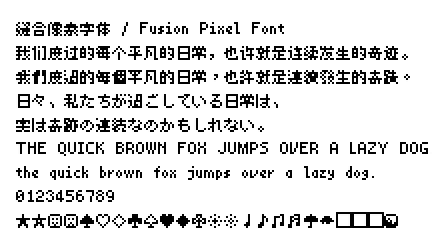
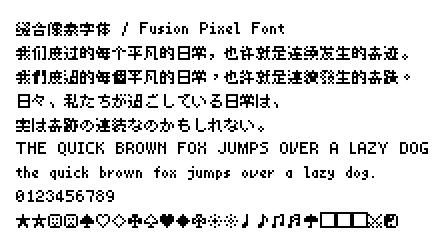
2024.11.04

diff --git a/tools/configs/__init__.py b/tools/configs/__init__.py
@@ -1,6 +1,6 @@
 from typing import Literal, get_args
 
-version = '2024.05.12'
+version = '2024.11.04'
 
 type FontSize = Literal[8, 10, 12]
 font_sizes = list[FontSize](get_args(FontSize.__value__))

diff --git a/docs/font-info-8px-monospaced.md b/docs/font-info-8px-monospaced.md
@@ -4,29 +4,29 @@
 
 | 属性 | 值 |
 |---|---|
-| 版本号 | 2024.05.12 |
-| 字符总数 | 20601 |
+| 版本号 | 2024.11.04 |
+| 字符总数 | 22061 |
 
 ## Unicode 字符分布
 
-Unicode 版本：15.1.0
+Unicode 版本：16.0.0
 
 | 区块范围 | 区块名称 | 区块含义 | 完成数 | 缺失数 | 进度 |
 |---|---|---|---:|---:|---:|
 | 0000 ~ 007F | Basic Latin | 基本拉丁 | 95 / 95 | 0 | 100.00% 🚩 |
-| 0080 ~ 00FF | Latin-1 Supplement | 拉丁-1 增补 | 90 / 94 | 4 | 95.74% 🚧 |
-| 0100 ~ 017F | Latin Extended-A | 拉丁扩充-A | 115 / 128 | 13 | 89.84% 🚧 |
-| 0180 ~ 024F | Latin Extended-B | 拉丁扩充-B | 72 / 208 | 136 | 34.62% 🚧 |
+| 0080 ~ 00FF | Latin-1 Supplement | 拉丁-1 增补 | 94 / 94 | 0 | 100.00% 🚩 |
+| 0100 ~ 017F | Latin Extended-A | 拉丁扩充-A | 128 / 128 | 0 | 100.00% 🚩 |
+| 0180 ~ 024F | Latin Extended-B | 拉丁扩充-B | 77 / 208 | 131 | 37.02% 🚧 |
 | 2000 ~ 206F | General Punctuation | 通用标点 | 36 / 71 | 35 | 50.70% 🚧 |
 | 2100 ~ 214F | Letterlike Symbols | 类字符号 | 2 / 80 | 78 | 2.50% 🚧 |
 | 2150 ~ 218F | Number Forms | 数字形式 | 24 / 60 | 36 | 40.00% 🚧 |
 | 2190 ~ 21FF | Arrows | 箭头 | 49 / 112 | 63 | 43.75% 🚧 |
-| 2200 ~ 22FF | Mathematical Operators | 数学运算符 | 54 / 256 | 202 | 21.09% 🚧 |
-| 2460 ~ 24FF | Enclosed Alphanumerics | 包围字母数字 | 92 / 160 | 68 | 57.50% 🚧 |
+| 2200 ~ 22FF | Mathematical Operators | 数学运算符 | 37 / 256 | 219 | 14.45% 🚧 |
+| 2460 ~ 24FF | Enclosed Alphanumerics | 包围字母数字 | 20 / 160 | 140 | 12.50% 🚧 |
 | 2500 ~ 257F | Box Drawing | 制表符 | 128 / 128 | 0 | 100.00% 🚩 |
 | 2580 ~ 259F | Block Elements | 方块元素 | 32 / 32 | 0 | 100.00% 🚩 |
 | 25A0 ~ 25FF | Geometric Shapes | 几何形状 | 96 / 96 | 0 | 100.00% 🚩 |
-| 2600 ~ 26FF | Miscellaneous Symbols | 各式符号 | 45 / 256 | 211 | 17.58% 🚧 |
+| 2600 ~ 26FF | Miscellaneous Symbols | 各式符号 | 75 / 256 | 181 | 29.30% 🚧 |
 | 2800 ~ 28FF | Braille Patterns | 盲文图案 | 256 / 256 | 0 | 100.00% 🚩 |
 | 3000 ~ 303F | CJK Symbols and Punctuation | 中日韩符号与标点 | 49 / 63 | 14 | 77.78% 🚧 |
 | 3040 ~ 309F | Hiragana | 平假名 | 87 / 93 | 6 | 93.55% 🚧 |
@@ -34,11 +34,11 @@ Unicode 版本：15.1.0
 | 3100 ~ 312F | Bopomofo | 注音字母 | 43 / 43 | 0 | 100.00% 🚩 |
 | 3130 ~ 318F | Hangul Compatibility Jamo | 谚文兼容字母 | 52 / 94 | 42 | 55.32% 🚧 |
 | 3200 ~ 32FF | Enclosed CJK Letters and Months | 包围中日韩字母与月份 | 31 / 255 | 224 | 12.16% 🚧 |
-| 4E00 ~ 9FFF | CJK Unified Ideographs | 中日韩统一表意文字 | 13218 / 20992 | 7774 | 62.97% 🚧 |
+| 4E00 ~ 9FFF | CJK Unified Ideographs | 中日韩统一表意文字 | 14717 / 20992 | 6275 | 70.11% 🚧 |
 | AC00 ~ D7AF | Hangul Syllables | 谚文音节 | 5517 / 11172 | 5655 | 49.38% 🚧 |
 | E000 ~ F8FF | Private Use Area | 私用区域 | 94 / 0 | 0 | 100.00% 🚩 |
 | FE10 ~ FE1F | Vertical Forms | 竖排形式 | 10 / 10 | 0 | 100.00% 🚩 |
-| FE30 ~ FE4F | CJK Compatibility Forms | 中日韩兼容形式 | 29 / 32 | 3 | 90.62% 🚧 |
+| FE30 ~ FE4F | CJK Compatibility Forms | 中日韩兼容形式 | 27 / 32 | 5 | 84.38% 🚧 |
 | FE50 ~ FE6F | Small Form Variants | 小型形式变体 | 25 / 26 | 1 | 96.15% 🚧 |
 | FF00 ~ FFEF | Halfwidth and Fullwidth Forms | 半宽与全宽形式 | 167 / 225 | 58 | 74.22% 🚧 |
 | FFF0 ~ FFFF | Specials | 特殊 | 2 / 2 | 0 | 100.00% 🚩 |
@@ -51,8 +51,8 @@ Unicode 版本：15.1.0
 |---|---:|---:|---:|
 | 一级汉字 | 3755 / 3755 | 0 | 100.00% 🚩 |
 | 二级汉字 | 3008 / 3008 | 0 | 100.00% 🚩 |
-| 其他字符 | 559 / 682 | 123 | 81.96% 🚧 |
-| 总计 | 7322 / 7445 | 123 | 98.35% 🚧 |
+| 其他字符 | 514 / 682 | 168 | 75.37% 🚧 |
+| 总计 | 7277 / 7445 | 168 | 97.74% 🚧 |
 
 ## Big5 字符分布
 
@@ -61,9 +61,9 @@ Unicode 版本：15.1.0
 | 区块名称 | 完成数 | 缺失数 | 进度 |
 |---|---:|---:|---:|
 | 常用汉字 | 5401 / 5401 | 0 | 100.00% 🚩 |
-| 次常用汉字 | 3923 / 7652 | 3729 | 51.27% 🚧 |
+| 次常用汉字 | 4801 / 7652 | 2851 | 62.74% 🚧 |
 | 其他字符 | 339 / 408 | 69 | 83.09% 🚧 |
-| 总计 | 9663 / 13461 | 3798 | 71.79% 🚧 |
+| 总计 | 10541 / 13461 | 2920 | 78.31% 🚧 |
 
 ## Shift-JIS 字符分布
 
@@ -73,9 +73,9 @@ Unicode 版本：15.1.0
 |---|---:|---:|---:|
 | 单字节-ASCII可打印字符 | 95 / 95 | 0 | 100.00% 🚩 |
 | 单字节-半角片假名 | 63 / 63 | 0 | 100.00% 🚩 |
-| 双字节-其他字符 | 406 / 524 | 118 | 77.48% 🚧 |
+| 双字节-其他字符 | 408 / 524 | 116 | 77.86% 🚧 |
 | 双字节-汉字 | 6355 / 6355 | 0 | 100.00% 🚩 |
-| 总计 | 6919 / 7037 | 118 | 98.32% 🚧 |
+| 总计 | 6921 / 7037 | 116 | 98.35% 🚧 |
 
 ## KS-X-1001 字符分布
 
@@ -84,6 +84,6 @@ Unicode 版本：15.1.0
 | 区块名称 | 完成数 | 缺失数 | 进度 |
 |---|---:|---:|---:|
 | 谚文音节 | 2350 / 2350 | 0 | 100.00% 🚩 |
-| 汉字 | 4453 / 4888 | 435 | 91.10% 🚧 |
-| 其他字符 | 633 / 988 | 355 | 64.07% 🚧 |
-| 总计 | 7436 / 8226 | 790 | 90.40% 🚧 |
+| 汉字 | 4620 / 4888 | 268 | 94.52% 🚧 |
+| 其他字符 | 592 / 988 | 396 | 59.92% 🚧 |
+| 总计 | 7562 / 8226 | 664 | 91.93% 🚧 |

diff --git a/docs/font-info-8px-proportional.md b/docs/font-info-8px-proportional.md
@@ -4,29 +4,29 @@
 
 | 属性 | 值 |
 |---|---|
-| 版本号 | 2024.05.12 |
-| 字符总数 | 20601 |
+| 版本号 | 2024.11.04 |
+| 字符总数 | 22061 |
 
 ## Unicode 字符分布
 
-Unicode 版本：15.1.0
+Unicode 版本：16.0.0
 
 | 区块范围 | 区块名称 | 区块含义 | 完成数 | 缺失数 | 进度 |
 |---|---|---|---:|---:|---:|
 | 0000 ~ 007F | Basic Latin | 基本拉丁 | 95 / 95 | 0 | 100.00% 🚩 |
-| 0080 ~ 00FF | Latin-1 Supplement | 拉丁-1 增补 | 90 / 94 | 4 | 95.74% 🚧 |
-| 0100 ~ 017F | Latin Extended-A | 拉丁扩充-A | 115 / 128 | 13 | 89.84% 🚧 |
-| 0180 ~ 024F | Latin Extended-B | 拉丁扩充-B | 72 / 208 | 136 | 34.62% 🚧 |
+| 0080 ~ 00FF | Latin-1 Supplement | 拉丁-1 增补 | 94 / 94 | 0 | 100.00% 🚩 |
+| 0100 ~ 017F | Latin Extended-A | 拉丁扩充-A | 128 / 128 | 0 | 100.00% 🚩 |
+| 0180 ~ 024F | Latin Extended-B | 拉丁扩充-B | 77 / 208 | 131 | 37.02% 🚧 |
 | 2000 ~ 206F | General Punctuation | 通用标点 | 36 / 71 | 35 | 50.70% 🚧 |
 | 2100 ~ 214F | Letterlike Symbols | 类字符号 | 2 / 80 | 78 | 2.50% 🚧 |
 | 2150 ~ 218F | Number Forms | 数字形式 | 24 / 60 | 36 | 40.00% 🚧 |
 | 2190 ~ 21FF | Arrows | 箭头 | 49 / 112 | 63 | 43.75% 🚧 |
-| 2200 ~ 22FF | Mathematical Operators | 数学运算符 | 54 / 256 | 202 | 21.09% 🚧 |
-| 2460 ~ 24FF | Enclosed Alphanumerics | 包围字母数字 | 92 / 160 | 68 | 57.50% 🚧 |
+| 2200 ~ 22FF | Mathematical Operators | 数学运算符 | 37 / 256 | 219 | 14.45% 🚧 |
+| 2460 ~ 24FF | Enclosed Alphanumerics | 包围字母数字 | 20 / 160 | 140 | 12.50% 🚧 |
 | 2500 ~ 257F | Box Drawing | 制表符 | 128 / 128 | 0 | 100.00% 🚩 |
 | 2580 ~ 259F | Block Elements | 方块元素 | 32 / 32 | 0 | 100.00% 🚩 |
 | 25A0 ~ 25FF | Geometric Shapes | 几何形状 | 96 / 96 | 0 | 100.00% 🚩 |
-| 2600 ~ 26FF | Miscellaneous Symbols | 各式符号 | 45 / 256 | 211 | 17.58% 🚧 |
+| 2600 ~ 26FF | Miscellaneous Symbols | 各式符号 | 75 / 256 | 181 | 29.30% 🚧 |
 | 2800 ~ 28FF | Braille Patterns | 盲文图案 | 256 / 256 | 0 | 100.00% 🚩 |
 | 3000 ~ 303F | CJK Symbols and Punctuation | 中日韩符号与标点 | 49 / 63 | 14 | 77.78% 🚧 |
 | 3040 ~ 309F | Hiragana | 平假名 | 87 / 93 | 6 | 93.55% 🚧 |
@@ -34,11 +34,11 @@ Unicode 版本：15.1.0
 | 3100 ~ 312F | Bopomofo | 注音字母 | 43 / 43 | 0 | 100.00% 🚩 |
 | 3130 ~ 318F | Hangul Compatibility Jamo | 谚文兼容字母 | 52 / 94 | 42 | 55.32% 🚧 |
 | 3200 ~ 32FF | Enclosed CJK Letters and Months | 包围中日韩字母与月份 | 31 / 255 | 224 | 12.16% 🚧 |
-| 4E00 ~ 9FFF | CJK Unified Ideographs | 中日韩统一表意文字 | 13218 / 20992 | 7774 | 62.97% 🚧 |
+| 4E00 ~ 9FFF | CJK Unified Ideographs | 中日韩统一表意文字 | 14717 / 20992 | 6275 | 70.11% 🚧 |
 | AC00 ~ D7AF | Hangul Syllables | 谚文音节 | 5517 / 11172 | 5655 | 49.38% 🚧 |
 | E000 ~ F8FF | Private Use Area | 私用区域 | 94 / 0 | 0 | 100.00% 🚩 |
 | FE10 ~ FE1F | Vertical Forms | 竖排形式 | 10 / 10 | 0 | 100.00% 🚩 |
-| FE30 ~ FE4F | CJK Compatibility Forms | 中日韩兼容形式 | 29 / 32 | 3 | 90.62% 🚧 |
+| FE30 ~ FE4F | CJK Compatibility Forms | 中日韩兼容形式 | 27 / 32 | 5 | 84.38% 🚧 |
 | FE50 ~ FE6F | Small Form Variants | 小型形式变体 | 25 / 26 | 1 | 96.15% 🚧 |
 | FF00 ~ FFEF | Halfwidth and Fullwidth Forms | 半宽与全宽形式 | 167 / 225 | 58 | 74.22% 🚧 |
 | FFF0 ~ FFFF | Specials | 特殊 | 2 / 2 | 0 | 100.00% 🚩 |
@@ -51,8 +51,8 @@ Unicode 版本：15.1.0
 |---|---:|---:|---:|
 | 一级汉字 | 3755 / 3755 | 0 | 100.00% 🚩 |
 | 二级汉字 | 3008 / 3008 | 0 | 100.00% 🚩 |
-| 其他字符 | 559 / 682 | 123 | 81.96% 🚧 |
-| 总计 | 7322 / 7445 | 123 | 98.35% 🚧 |
+| 其他字符 | 514 / 682 | 168 | 75.37% 🚧 |
+| 总计 | 7277 / 7445 | 168 | 97.74% 🚧 |
 
 ## Big5 字符分布
 
@@ -61,9 +61,9 @@ Unicode 版本：15.1.0
 | 区块名称 | 完成数 | 缺失数 | 进度 |
 |---|---:|---:|---:|
 | 常用汉字 | 5401 / 5401 | 0 | 100.00% 🚩 |
-| 次常用汉字 | 3923 / 7652 | 3729 | 51.27% 🚧 |
+| 次常用汉字 | 4801 / 7652 | 2851 | 62.74% 🚧 |
 | 其他字符 | 339 / 408 | 69 | 83.09% 🚧 |
-| 总计 | 9663 / 13461 | 3798 | 71.79% 🚧 |
+| 总计 | 10541 / 13461 | 2920 | 78.31% 🚧 |
 
 ## Shift-JIS 字符分布
 
@@ -73,9 +73,9 @@ Unicode 版本：15.1.0
 |---|---:|---:|---:|
 | 单字节-ASCII可打印字符 | 95 / 95 | 0 | 100.00% 🚩 |
 | 单字节-半角片假名 | 63 / 63 | 0 | 100.00% 🚩 |
-| 双字节-其他字符 | 406 / 524 | 118 | 77.48% 🚧 |
+| 双字节-其他字符 | 408 / 524 | 116 | 77.86% 🚧 |
 | 双字节-汉字 | 6355 / 6355 | 0 | 100.00% 🚩 |
-| 总计 | 6919 / 7037 | 118 | 98.32% 🚧 |
+| 总计 | 6921 / 7037 | 116 | 98.35% 🚧 |
 
 ## KS-X-1001 字符分布
 
@@ -84,6 +84,6 @@ Unicode 版本：15.1.0
 | 区块名称 | 完成数 | 缺失数 | 进度 |
 |---|---:|---:|---:|
 | 谚文音节 | 2350 / 2350 | 0 | 100.00% 🚩 |
-| 汉字 | 4453 / 4888 | 435 | 91.10% 🚧 |
-| 其他字符 | 633 / 988 | 355 | 64.07% 🚧 |
-| 总计 | 7436 / 8226 | 790 | 90.40% 🚧 |
+| 汉字 | 4620 / 4888 | 268 | 94.52% 🚧 |
+| 其他字符 | 592 / 988 | 396 | 59.92% 🚧 |
+| 总计 | 7562 / 8226 | 664 | 91.93% 🚧 |

diff --git a/docs/font-info-12px-monospaced.md b/docs/font-info-12px-monospaced.md
@@ -4,12 +4,12 @@
 
 | 属性 | 值 |
 |---|---|
-| 版本号 | 2024.05.12 |
-| 字符总数 | 31345 |
+| 版本号 | 2024.11.04 |
+| 字符总数 | 31357 |
 
 ## Unicode 字符分布
 
-Unicode 版本：15.1.0
+Unicode 版本：16.0.0
 
 | 区块范围 | 区块名称 | 区块含义 | 完成数 | 缺失数 | 进度 |
 |---|---|---|---:|---:|---:|
@@ -32,7 +32,7 @@ Unicode 版本：15.1.0
 | 2600 ~ 26FF | Miscellaneous Symbols | 各式符号 | 141 / 256 | 115 | 55.08% 🚧 |
 | 2700 ~ 27BF | Dingbats | 杂锦 | 32 / 192 | 160 | 16.67% 🚧 |
 | 2800 ~ 28FF | Braille Patterns | 盲文图案 | 256 / 256 | 0 | 100.00% 🚩 |
-| 2FF0 ~ 2FFF | Ideographic Description Characters | 表意文字描述字符 | 12 / 12 | 0 | 100.00% 🚩 |
+| 2FF0 ~ 2FFF | Ideographic Description Characters | 表意文字描述字符 | 16 / 16 | 0 | 100.00% 🚩 |
 | 3000 ~ 303F | CJK Symbols and Punctuation | 中日韩符号与标点 | 49 / 63 | 14 | 77.78% 🚧 |
 | 3040 ~ 309F | Hiragana | 平假名 | 93 / 93 | 0 | 100.00% 🚩 |
 | 30A0 ~ 30FF | Katakana | 片假名 | 96 / 96 | 0 | 100.00% 🚩 |
@@ -41,7 +41,7 @@ Unicode 版本：15.1.0
 | 3200 ~ 32FF | Enclosed CJK Letters and Months | 包围中日韩字母与月份 | 92 / 255 | 163 | 36.08% 🚧 |
 | 3300 ~ 33FF | CJK Compatibility | 中日韩兼容 | 60 / 256 | 196 | 23.44% 🚧 |
 | 3400 ~ 4DBF | CJK Unified Ideographs Extension A | 中日韩统一表意文字扩充 A | 53 / 6592 | 6539 | 0.80% 🚧 |
-| 4E00 ~ 9FFF | CJK Unified Ideographs | 中日韩统一表意文字 | 17573 / 20992 | 3419 | 83.71% 🚧 |
+| 4E00 ~ 9FFF | CJK Unified Ideographs | 中日韩统一表意文字 | 17581 / 20992 | 3411 | 83.75% 🚧 |
 | AC00 ~ D7AF | Hangul Syllables | 谚文音节 | 11172 / 11172 | 0 | 100.00% 🚩 |
 | E000 ~ F8FF | Private Use Area | 私用区域 | 211 / 0 | 0 | 100.00% 🚩 |
 | FE10 ~ FE1F | Vertical Forms | 竖排形式 | 10 / 10 | 0 | 100.00% 🚩 |
@@ -60,9 +60,9 @@ Unicode 版本：15.1.0
 | 区块名称 | 完成数 | 缺失数 | 进度 |
 |---|---:|---:|---:|
 | 一级汉字 | 3755 / 3755 | 0 | 100.00% 🚩 |
-| 二级汉字 | 2681 / 3008 | 327 | 89.13% 🚧 |
+| 二级汉字 | 2686 / 3008 | 322 | 89.30% 🚧 |
 | 其他字符 | 651 / 682 | 31 | 95.45% 🚧 |
-| 总计 | 7087 / 7445 | 358 | 95.19% 🚧 |
+| 总计 | 7092 / 7445 | 353 | 95.26% 🚧 |
 
 ## Big5 字符分布
 
@@ -71,9 +71,9 @@ Unicode 版本：15.1.0
 | 区块名称 | 完成数 | 缺失数 | 进度 |
 |---|---:|---:|---:|
 | 常用汉字 | 5401 / 5401 | 0 | 100.00% 🚩 |
-| 次常用汉字 | 5819 / 7652 | 1833 | 76.05% 🚧 |
+| 次常用汉字 | 5821 / 7652 | 1831 | 76.07% 🚧 |
 | 其他字符 | 344 / 408 | 64 | 84.31% 🚧 |
-| 总计 | 11564 / 13461 | 1897 | 85.91% 🚧 |
+| 总计 | 11566 / 13461 | 1895 | 85.92% 🚧 |
 
 ## Shift-JIS 字符分布
 

diff --git a/docs/font-info-12px-proportional.md b/docs/font-info-12px-proportional.md
@@ -4,12 +4,12 @@
 
 | 属性 | 值 |
 |---|---|
-| 版本号 | 2024.05.12 |
-| 字符总数 | 31345 |
+| 版本号 | 2024.11.04 |
+| 字符总数 | 31357 |
 
 ## Unicode 字符分布
 
-Unicode 版本：15.1.0
+Unicode 版本：16.0.0
 
 | 区块范围 | 区块名称 | 区块含义 | 完成数 | 缺失数 | 进度 |
 |---|---|---|---:|---:|---:|
@@ -32,7 +32,7 @@ Unicode 版本：15.1.0
 | 2600 ~ 26FF | Miscellaneous Symbols | 各式符号 | 141 / 256 | 115 | 55.08% 🚧 |
 | 2700 ~ 27BF | Dingbats | 杂锦 | 32 / 192 | 160 | 16.67% 🚧 |
 | 2800 ~ 28FF | Braille Patterns | 盲文图案 | 256 / 256 | 0 | 100.00% 🚩 |
-| 2FF0 ~ 2FFF | Ideographic Description Characters | 表意文字描述字符 | 12 / 12 | 0 | 100.00% 🚩 |
+| 2FF0 ~ 2FFF | Ideographic Description Characters | 表意文字描述字符 | 16 / 16 | 0 | 100.00% 🚩 |
 | 3000 ~ 303F | CJK Symbols and Punctuation | 中日韩符号与标点 | 49 / 63 | 14 | 77.78% 🚧 |
 | 3040 ~ 309F | Hiragana | 平假名 | 93 / 93 | 0 | 100.00% 🚩 |
 | 30A0 ~ 30FF | Katakana | 片假名 | 96 / 96 | 0 | 100.00% 🚩 |
@@ -41,7 +41,7 @@ Unicode 版本：15.1.0
 | 3200 ~ 32FF | Enclosed CJK Letters and Months | 包围中日韩字母与月份 | 92 / 255 | 163 | 36.08% 🚧 |
 | 3300 ~ 33FF | CJK Compatibility | 中日韩兼容 | 60 / 256 | 196 | 23.44% 🚧 |
 | 3400 ~ 4DBF | CJK Unified Ideographs Extension A | 中日韩统一表意文字扩充 A | 53 / 6592 | 6539 | 0.80% 🚧 |
-| 4E00 ~ 9FFF | CJK Unified Ideographs | 中日韩统一表意文字 | 17573 / 20992 | 3419 | 83.71% 🚧 |
+| 4E00 ~ 9FFF | CJK Unified Ideographs | 中日韩统一表意文字 | 17581 / 20992 | 3411 | 83.75% 🚧 |
 | AC00 ~ D7AF | Hangul Syllables | 谚文音节 | 11172 / 11172 | 0 | 100.00% 🚩 |
 | E000 ~ F8FF | Private Use Area | 私用区域 | 211 / 0 | 0 | 100.00% 🚩 |
 | FE10 ~ FE1F | Vertical Forms | 竖排形式 | 10 / 10 | 0 | 100.00% 🚩 |
@@ -60,9 +60,9 @@ Unicode 版本：15.1.0
 | 区块名称 | 完成数 | 缺失数 | 进度 |
 |---|---:|---:|---:|
 | 一级汉字 | 3755 / 3755 | 0 | 100.00% 🚩 |
-| 二级汉字 | 2681 / 3008 | 327 | 89.13% 🚧 |
+| 二级汉字 | 2686 / 3008 | 322 | 89.30% 🚧 |
 | 其他字符 | 651 / 682 | 31 | 95.45% 🚧 |
-| 总计 | 7087 / 7445 | 358 | 95.19% 🚧 |
+| 总计 | 7092 / 7445 | 353 | 95.26% 🚧 |
 
 ## Big5 字符分布
 
@@ -71,9 +71,9 @@ Unicode 版本：15.1.0
 | 区块名称 | 完成数 | 缺失数 | 进度 |
 |---|---:|---:|---:|
 | 常用汉字 | 5401 / 5401 | 0 | 100.00% 🚩 |
-| 次常用汉字 | 5819 / 7652 | 1833 | 76.05% 🚧 |
+| 次常用汉字 | 5821 / 7652 | 1831 | 76.07% 🚧 |
 | 其他字符 | 344 / 408 | 64 | 84.31% 🚧 |
-| 总计 | 11564 / 13461 | 1897 | 85.91% 🚧 |
+| 总计 | 11566 / 13461 | 1895 | 85.92% 🚧 |
 
 ## Shift-JIS 字符分布
 

diff --git a/docs/font-info-10px-monospaced.md b/docs/font-info-10px-monospaced.md
@@ -4,12 +4,12 @@
 
 | 属性 | 值 |
 |---|---|
-| 版本号 | 2024.05.12 |
-| 字符总数 | 23976 |
+| 版本号 | 2024.11.04 |
+| 字符总数 | 23980 |
 
 ## Unicode 字符分布
 
-Unicode 版本：15.1.0
+Unicode 版本：16.0.0
 
 | 区块范围 | 区块名称 | 区块含义 | 完成数 | 缺失数 | 进度 |
 |---|---|---|---:|---:|---:|
@@ -30,7 +30,7 @@ Unicode 版本：15.1.0
 | 2600 ~ 26FF | Miscellaneous Symbols | 各式符号 | 141 / 256 | 115 | 55.08% 🚧 |
 | 2700 ~ 27BF | Dingbats | 杂锦 | 32 / 192 | 160 | 16.67% 🚧 |
 | 2800 ~ 28FF | Braille Patterns | 盲文图案 | 256 / 256 | 0 | 100.00% 🚩 |
-| 2FF0 ~ 2FFF | Ideographic Description Characters | 表意文字描述字符 | 12 / 12 | 0 | 100.00% 🚩 |
+| 2FF0 ~ 2FFF | Ideographic Description Characters | 表意文字描述字符 | 16 / 16 | 0 | 100.00% 🚩 |
 | 3000 ~ 303F | CJK Symbols and Punctuation | 中日韩符号与标点 | 49 / 63 | 14 | 77.78% 🚧 |
 | 3040 ~ 309F | Hiragana | 平假名 | 93 / 93 | 0 | 100.00% 🚩 |
 | 30A0 ~ 30FF | Katakana | 片假名 | 96 / 96 | 0 | 100.00% 🚩 |

diff --git a/docs/font-info-10px-proportional.md b/docs/font-info-10px-proportional.md
@@ -4,12 +4,12 @@
 
 | 属性 | 值 |
 |---|---|
-| 版本号 | 2024.05.12 |
-| 字符总数 | 24125 |
+| 版本号 | 2024.11.04 |
+| 字符总数 | 24129 |
 
 ## Unicode 字符分布
 
-Unicode 版本：15.1.0
+Unicode 版本：16.0.0
 
 | 区块范围 | 区块名称 | 区块含义 | 完成数 | 缺失数 | 进度 |
 |---|---|---|---:|---:|---:|
@@ -32,7 +32,7 @@ Unicode 版本：15.1.0
 | 2600 ~ 26FF | Miscellaneous Symbols | 各式符号 | 141 / 256 | 115 | 55.08% 🚧 |
 | 2700 ~ 27BF | Dingbats | 杂锦 | 32 / 192 | 160 | 16.67% 🚧 |
 | 2800 ~ 28FF | Braille Patterns | 盲文图案 | 256 / 256 | 0 | 100.00% 🚩 |
-| 2FF0 ~ 2FFF | Ideographic Description Characters | 表意文字描述字符 | 12 / 12 | 0 | 100.00% 🚩 |
+| 2FF0 ~ 2FFF | Ideographic Description Characters | 表意文字描述字符 | 16 / 16 | 0 | 100.00% 🚩 |
 | 3000 ~ 303F | CJK Symbols and Punctuation | 中日韩符号与标点 | 49 / 63 | 14 | 77.78% 🚧 |
 | 3040 ~ 309F | Hiragana | 平假名 | 93 / 93 | 0 | 100.00% 🚩 |
 | 30A0 ~ 30FF | Katakana | 片假名 | 96 / 96 | 0 | 100.00% 🚩 |
